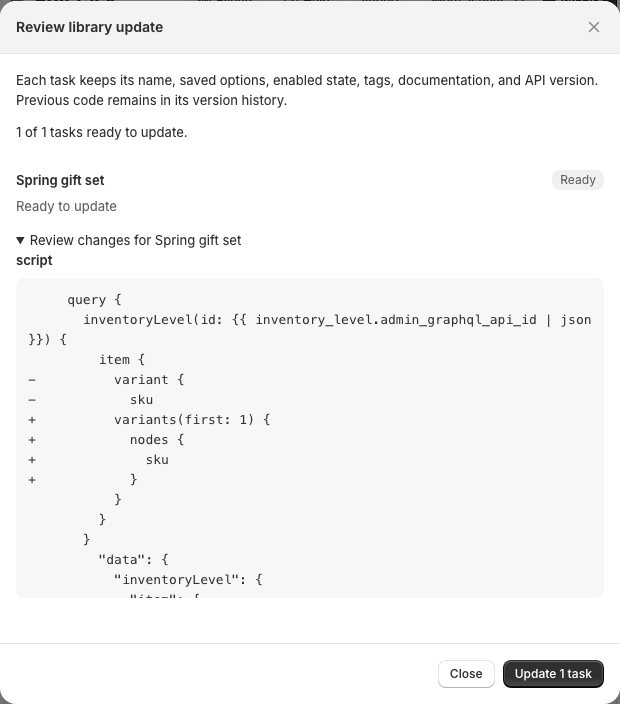
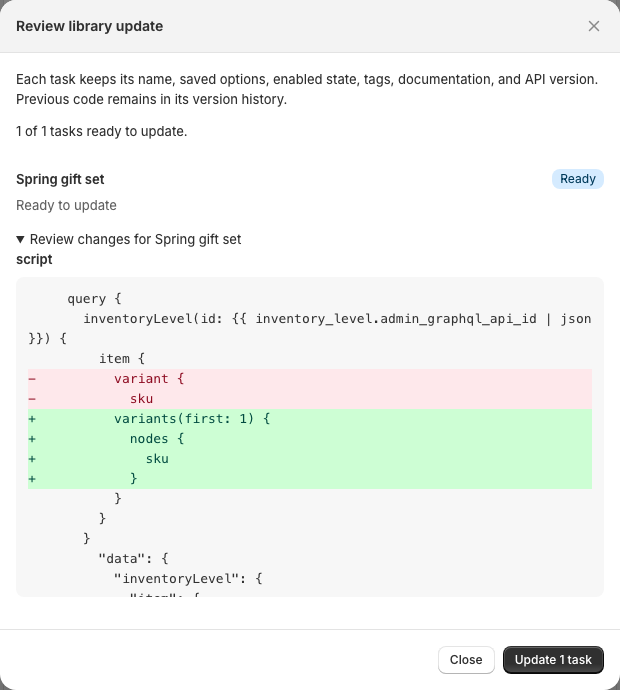
Refresh library update review screenshots and instructions

diff --git a/resources/task-library/updating-tasks.md b/resources/task-library/updating-tasks.md
@@ -26,7 +26,7 @@ Changes you've made to the code or execution settings can require individual att
 
     ![The task editor shows a Library update available banner above the saved bundle options.](../../.gitbook/assets/task-library-single-notice.png)
 
-2. Expand **Review changes for…** to inspect the differences. Opening the review doesn't save anything. When you're ready, click **Update 1 task**.
+2. Expand **Review changes for…** to inspect the differences. Removed lines are red with a minus sign (`-`); added lines are green with a plus sign (`+`). Opening the review doesn't save anything. When you're ready, click **Update 1 task**.
 
     ![The single-task review shows the code differences and the Update 1 task button.](../../.gitbook/assets/task-library-single-review.png)
 
@@ -71,6 +71,8 @@ Select the tasks using the checkboxes in the task list, then choose **Update fro
 The review works the same way as the library-task group: inspect the changes, apply updates to the ready copies, and check the results. Selected tasks can come from different library tasks.
 
 ## When a task needs individual review
+
+Click the title of a task marked **Needs review** in the review window to open that task in a new tab. You can inspect its code and options while keeping the original review open. Any updates already running continue in the original tab.
 
 Mechanic may leave a copy unchanged for several reasons:
 
